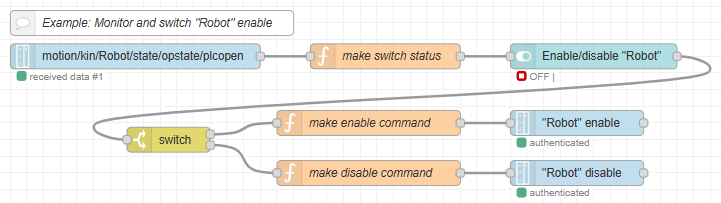
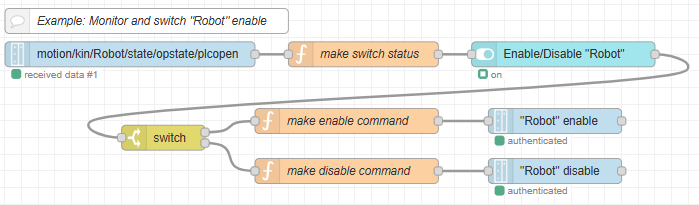
Dashboard 2.0 motion kinematic examples added

Changed region(s): [[0.0, 0.0296, 0.9914, 0.9754]]

diff --git a/doc/EXAMPLES.md b/doc/EXAMPLES.md
@@ -47,11 +47,11 @@ This page contains various examples for different use cases. Looking through the
 - [Absolute positioning of an axis "AxisX"]( #absolute-positioning-of-an-axis-axisx)
 - [Abort an axis movement of an axis "AxisX"]( #abort-movement-of-an-axis-axisx)
 - [Reset an error of an axis "AxisX"](#reset-an-error-of-an-axis-axisx)
-- [Group axes of kinematic "Robot"]( #group-axes-of-kinematic-robot)
-- [Monitor and enable or disable kinematic "Robot"]( #monitor-and-enable-or-disable-kinematic-robot)
-- [Move linear absolute position kinematic "Robot"]( #move-linear-absolute-position-kinematic-robot)
-- [Abort kinematic "Robot"]( #abort-kinematic-robot)
-- [Reset kinematic "Robot"]( #reset-kinematic-robot)
+- [Group axes to kinematic "Robot"]( #group-axes-to-kinematic-robot)
+- [Monitor and enable or disable of kinematic "Robot"]( #monitor-and-enable-or-disable-of-kinematic-robot)
+- [Move linear absolute of kinematic "Robot"]( #move-linear-absolute-of-kinematic-robot)
+- [Abort movement of kinematic "Robot"]( #abort-movement-of-kinematic-robot)
+- [Reset error of kinematic "Robot"]( #reset-error-of-kinematic-robot)
 
 [Script interpreter and ctrlX OS - Python Runtime App dashboard examples](#script-interpreter-and-ctrlx-os---python-runtime-app-dashboard-examples)
 
@@ -618,59 +618,89 @@ Dashboard 2.0
 [{"id":"d134226bd80e1be5","type":"function","z":"af28b7f20c662b36","name":"make Reset error","func":"msg.payload = null;\nreturn msg;","outputs":1,"noerr":0,"initialize":"","finalize":"","libs":[],"x":370,"y":2320,"wires":[["c654bbe59916dcd8"]]},{"id":"c654bbe59916dcd8","type":"ctrlx-datalayer-request","z":"af28b7f20c662b36","device":"7b877229.678964","method":"CREATE","path":"motion/axs/AxisX/cmd/reset","payloadFormat":"value_type","name":"Reset error of \"AxisX\"","pendingWarnLevel":"","pendingErrorLevel":"","x":600,"y":2320,"wires":[[]]},{"id":"ee10a5d37883f0b2","type":"comment","z":"af28b7f20c662b36","name":"Example: Reset error of \"AxisX\"","info":"","x":190,"y":2280,"wires":[]},{"id":"a68723ea4473153d","type":"inject","z":"af28b7f20c662b36","name":"Manual Trigger","props":[{"p":"payload"},{"p":"topic","vt":"str"}],"repeat":"","crontab":"","once":false,"onceDelay":0.1,"topic":"","payload":"","payloadType":"date","x":160,"y":2320,"wires":[["d134226bd80e1be5"]]},{"id":"b6ce21aaefb38b56","type":"ui-button","z":"af28b7f20c662b36","group":"3a3c05d390239fbd","name":"","label":"Reset error of \"AxisX\"","order":5,"width":"2","height":"1","emulateClick":false,"tooltip":"","color":"","bgcolor":"","className":"","icon":"","iconPosition":"left","payload":"","payloadType":"str","topic":"topic","topicType":"msg","buttonColor":"","textColor":"","iconColor":"","enableClick":true,"enablePointerdown":false,"pointerdownPayload":"","pointerdownPayloadType":"str","enablePointerup":false,"pointerupPayload":"","pointerupPayloadType":"str","x":160,"y":2360,"wires":[["d134226bd80e1be5"]]},{"id":"7b877229.678964","type":"ctrlx-config","name":"localhost","hostname":"localhost","debug":false},{"id":"3a3c05d390239fbd","type":"ui-group","name":"Axes handling","page":"30e3bb10109e324b","width":6,"height":1,"order":1,"showTitle":true,"className":"","visible":"true","disabled":"false","groupType":"default"},{"id":"30e3bb10109e324b","type":"ui-page","name":"Page 1","ui":"ae50776f3a63db0e","path":"/page1","icon":"home","layout":"grid","theme":"a204995a5a44f2b2","breakpoints":[{"name":"Default","px":0,"cols":3},{"name":"Tablet","px":576,"cols":6},{"name":"Small Desktop","px":768,"cols":9},{"name":"Desktop","px":1024,"cols":12}],"order":1,"className":"","visible":true,"disabled":false},{"id":"ae50776f3a63db0e","type":"ui-base","name":"My Dashboard","path":"/dashboard","appIcon":"","includeClientData":true,"acceptsClientConfig":["ui-notification","ui-control"],"showPathInSidebar":false,"headerContent":"page","navigationStyle":"default","titleBarStyle":"default","showReconnectNotification":true,"notificationDisplayTime":1,"showDisconnectNotification":true,"allowInstall":false},{"id":"a204995a5a44f2b2","type":"ui-theme","name":"Default Theme","colors":{"surface":"#ffffff","primary":"#0094CE","bgPage":"#eeeeee","groupBg":"#ffffff","groupOutline":"#cccccc"},"sizes":{"density":"default","pagePadding":"12px","groupGap":"12px","groupBorderRadius":"4px","widgetGap":"12px"}},{"id":"bbbad2206b96fc4a","type":"global-config","env":[],"modules":{"node-red-contrib-ctrlx-automation":"1.9.8","@flowfuse/node-red-dashboard":"1.30.2"}}]
 ```
 
-### Group axes of kinematic "Robot"
+### Group axes to kinematic "Robot"
 
-The following example shows how to add the axes ("X","Y","Z") to a kinematic group "Robot". Each axis grouped must be defined in the kinematic axes. Axis states must be `STANDSTILL`. This command will transition the grouped axes into state `COORDINATED_MOTION`. Axes must be grouped and the kinematic must be enabled prior to physical motion.
+The following example shows how to add the axes ("X","Y","Z") to a kinematic "Robot". Each axis must be defined as a kinematic axes. Axis states must be `STANDSTILL`. This command will transition the grouped axes into state `COORDINATED_MOTION`. Axes must be grouped and the kinematic must be enabled prior to physical motion ([see axis state machine documentation](https://docs.automation.boschrexroth.com/doc/359516816/axis-objects/latest/en/)).
 
 ![examples-motion-kinematics-group-axes.png](./images/examples-motion-kinematics-group-axes.png)
 ![examples-motion-kinematics-group-axes-dashboard.png](./images/examples-motion-kinematics-group-axes-dashboard.png)
 
+Dashboard 1.0
 ```JSON
 [{"id":"57f25cb632d4c907","type":"function","z":"3f1e15ba92536e91","name":"group command","func":"var newMsg = {};\nnewMsg.payload = {\n    \"type\": \"object\",\n    \"value\": {\n        \"kinName\": \"Robot\",\n        \"buffered\": false\n    }\n}\nreturn newMsg;","outputs":1,"noerr":0,"initialize":"","finalize":"","libs":[],"x":380,"y":200,"wires":[["6a752590b2876ba5","49122ab1c98b446b","c0da08a13cfeda35"]]},{"id":"6a752590b2876ba5","type":"ctrlx-datalayer-request","z":"3f1e15ba92536e91","device":"7b877229.678964","method":"CREATE","path":"motion/axs/X/cmd/add-to-kin","payloadFormat":"value_type","name":"\"X\" axis add to kinematic","x":650,"y":140,"wires":[[]]},{"id":"a42e5536c1a2763e","type":"ui_button","z":"3f1e15ba92536e91","name":"","group":"85755e14b124f041","order":3,"width":"3","height":"1","passthru":false,"label":"Group \"Robot\"","tooltip":"","color":"","bgcolor":"","className":"","icon":"","payload":"","payloadType":"str","topic":"topic","topicType":"msg","x":180,"y":200,"wires":[["57f25cb632d4c907"]]},{"id":"b5d6748b8bc10a6a","type":"inject","z":"3f1e15ba92536e91","name":"Manual Trigger","props":[{"p":"payload"},{"p":"topic","vt":"str"}],"repeat":"","crontab":"","once":false,"onceDelay":0.1,"topic":"","payload":"","payloadType":"date","x":180,"y":160,"wires":[["57f25cb632d4c907"]]},{"id":"aa78fd51fee8f256","type":"comment","z":"3f1e15ba92536e91","name":"Example: Group axes of kinematic \"Robot\"","info":"","x":220,"y":120,"wires":[]},{"id":"49122ab1c98b446b","type":"ctrlx-datalayer-request","z":"3f1e15ba92536e91","device":"7b877229.678964","method":"CREATE","path":"motion/axs/Y/cmd/add-to-kin","payloadFormat":"value_type","name":"\"Y\" axis add to kinematic","x":650,"y":200,"wires":[[]]},{"id":"c0da08a13cfeda35","type":"ctrlx-datalayer-request","z":"3f1e15ba92536e91","device":"7b877229.678964","method":"CREATE","path":"motion/axs/Z/cmd/add-to-kin","payloadFormat":"value_type","name":"\"Z\" axis add to kinematic","x":650,"y":260,"wires":[[]]},{"id":"7b877229.678964","type":"ctrlx-config","name":"localhost","hostname":"localhost","debug":false},{"id":"85755e14b124f041","type":"ui_group","name":"Kinematic Handling","tab":"9cba2148.8c9148","order":3,"disp":true,"width":"6","collapse":false,"className":""},{"id":"9cba2148.8c9148","type":"ui_tab","name":"Examples","icon":"dashboard","order":7,"disabled":false,"hidden":false}]
 ```
 
-### Monitor and enable or disable kinematic "Robot"
+Dashboard 2.0
+```JSON
+[{"id":"57f25cb632d4c907","type":"function","z":"af28b7f20c662b36","name":"group command","func":"var newMsg = {};\nnewMsg.payload = {\n    \"type\": \"object\",\n    \"value\": {\n        \"kinName\": \"Robot\",\n        \"buffered\": false\n    }\n}\nreturn newMsg;","outputs":1,"noerr":0,"initialize":"","finalize":"","libs":[],"x":360,"y":2580,"wires":[["6a752590b2876ba5","49122ab1c98b446b","c0da08a13cfeda35"]]},{"id":"6a752590b2876ba5","type":"ctrlx-datalayer-request","z":"af28b7f20c662b36","device":"7b877229.678964","method":"CREATE","path":"motion/axs/X/cmd/add-to-kin","payloadFormat":"value_type","name":"\"X\" axis add to kinematic","pendingWarnLevel":"","pendingErrorLevel":"","x":610,"y":2520,"wires":[[]]},{"id":"b5d6748b8bc10a6a","type":"inject","z":"af28b7f20c662b36","name":"Manual Trigger","props":[{"p":"payload"},{"p":"topic","vt":"str"}],"repeat":"","crontab":"","once":false,"onceDelay":0.1,"topic":"","payload":"","payloadType":"date","x":160,"y":2540,"wires":[["57f25cb632d4c907"]]},{"id":"aa78fd51fee8f256","type":"comment","z":"af28b7f20c662b36","name":"Example: Group axes of kinematic \"Robot\"","info":"","x":220,"y":2500,"wires":[]},{"id":"49122ab1c98b446b","type":"ctrlx-datalayer-request","z":"af28b7f20c662b36","device":"7b877229.678964","method":"CREATE","path":"motion/axs/Y/cmd/add-to-kin","payloadFormat":"value_type","name":"\"Y\" axis add to kinematic","pendingWarnLevel":"","pendingErrorLevel":"","x":610,"y":2580,"wires":[[]]},{"id":"c0da08a13cfeda35","type":"ctrlx-datalayer-request","z":"af28b7f20c662b36","device":"7b877229.678964","method":"CREATE","path":"motion/axs/Z/cmd/add-to-kin","payloadFormat":"value_type","name":"\"Z\" axis add to kinematic","pendingWarnLevel":"","pendingErrorLevel":"","x":610,"y":2640,"wires":[[]]},{"id":"4c696b04b40f0c67","type":"ui-button","z":"af28b7f20c662b36","group":"79318a125619cb7d","name":"","label":"Group \"Robot\"","order":5,"width":"2","height":"1","emulateClick":false,"tooltip":"","color":"","bgcolor":"","className":"","icon":"","iconPosition":"left","payload":"","payloadType":"str","topic":"topic","topicType":"msg","buttonColor":"","textColor":"","iconColor":"","enableClick":true,"enablePointerdown":false,"pointerdownPayload":"","pointerdownPayloadType":"str","enablePointerup":false,"pointerupPayload":"","pointerupPayloadType":"str","x":140,"y":2580,"wires":[["57f25cb632d4c907"]]},{"id":"7b877229.678964","type":"ctrlx-config","name":"localhost","hostname":"localhost","debug":false},{"id":"79318a125619cb7d","type":"ui-group","name":"Kinematik handling","page":"30e3bb10109e324b","width":6,"height":1,"order":-1,"showTitle":true,"className":"","visible":"true","disabled":"false","groupType":"default"},{"id":"30e3bb10109e324b","type":"ui-page","name":"Page 1","ui":"ae50776f3a63db0e","path":"/page1","icon":"home","layout":"grid","theme":"a204995a5a44f2b2","breakpoints":[{"name":"Default","px":0,"cols":3},{"name":"Tablet","px":576,"cols":6},{"name":"Small Desktop","px":768,"cols":9},{"name":"Desktop","px":1024,"cols":12}],"order":1,"className":"","visible":true,"disabled":false},{"id":"ae50776f3a63db0e","type":"ui-base","name":"My Dashboard","path":"/dashboard","appIcon":"","includeClientData":true,"acceptsClientConfig":["ui-notification","ui-control"],"showPathInSidebar":false,"headerContent":"page","navigationStyle":"default","titleBarStyle":"default","showReconnectNotification":true,"notificationDisplayTime":1,"showDisconnectNotification":true,"allowInstall":false},{"id":"a204995a5a44f2b2","type":"ui-theme","name":"Default Theme","colors":{"surface":"#ffffff","primary":"#0094CE","bgPage":"#eeeeee","groupBg":"#ffffff","groupOutline":"#cccccc"},"sizes":{"density":"default","pagePadding":"12px","groupGap":"12px","groupBorderRadius":"4px","widgetGap":"12px"}},{"id":"37810904cae826e5","type":"global-config","env":[],"modules":{"node-red-contrib-ctrlx-automation":"1.9.8","@flowfuse/node-red-dashboard":"1.30.2"}}]
+```
 
-The following example shows how to monitor, enable and disable the kinematic group "Robot". Axis states can be `STANDSTILL` or `COORDINATED_MOTION` after grouping. Axes must be grouped and the kinematic must be enabled prior to physical axis motion.
+### Monitor and enable or disable of kinematic "Robot"
+
+The following example shows how to monitor, enable and disable the kinematic group "Robot". Axis states can be `STANDSTILL` or `COORDINATED_MOTION` after grouping. Axes must be grouped and the kinematic must be enabled prior to axis motion ([see kinematic state machine documentation](https://docs.automation.boschrexroth.com/doc/3130592849/kinematic-objects/latest/en/)).
 
 ![examples-motion-kinematics-monitor-enable-disable.png](./images/examples-motion-kinematics-monitor-enable-disable.png)
 ![examples-motion-kinematics-monitor-enable-disable-dashboard.png](./images/examples-motion-kinematics-monitor-enable-disable-dashboard.png)
 
+Dashboard 1.0
 ```JSON
 [{"id":"b209226589a79621","type":"comment","z":"b12a2b51700402e0","name":"Example: Monitor and switch \"Robot\" enable","info":"","x":570,"y":480,"wires":[]},{"id":"a4bd2b7f770627be","type":"ui_switch","z":"b12a2b51700402e0","name":"","label":"Enable/disable \"Robot\"","tooltip":"","group":"85755e14b124f041","order":1,"width":"4","height":"1","passthru":false,"decouple":"true","topic":"","topicType":"str","style":"","onvalue":"{\"type\":\"bool8\",\"value\":true}","onvalueType":"json","onicon":"","oncolor":"","offvalue":"{\"type\":\"bool8\",\"value\":false}","offvalueType":"json","officon":"","offcolor":"","animate":false,"className":"","x":1100,"y":520,"wires":[["cae8298f2e8feaea"]]},{"id":"9f0584db0ec9dd17","type":"ctrlx-datalayer-request","z":"b12a2b51700402e0","device":"7b877229.678964","method":"CREATE","path":"motion/kin/Robot/cmd/group-ena","payloadFormat":"value_type","name":"\"Robot\" enable","pendingWarnLevel":"","pendingErrorLevel":"","x":1080,"y":600,"wires":[[]]},{"id":"d826f25e19cc2b25","type":"ctrlx-datalayer-request","z":"b12a2b51700402e0","device":"7b877229.678964","method":"CREATE","path":"motion/kin/Robot/cmd/group-dis","payloadFormat":"value_type","name":"\"Robot\" disable","pendingWarnLevel":"","pendingErrorLevel":"","x":1080,"y":660,"wires":[[]]},{"id":"cae8298f2e8feaea","type":"switch","z":"b12a2b51700402e0","name":"","property":"payload.value","propertyType":"msg","rules":[{"t":"true"},{"t":"false"}],"checkall":"false","repair":false,"outputs":2,"x":590,"y":620,"wires":[["9c1c14a3e7aa2864"],["e4f3efe23e81ddc6"]]},{"id":"9c1c14a3e7aa2864","type":"function","z":"b12a2b51700402e0","name":"make enable command","func":"var newMsg = {};\nnewMsg.payload = \"\";\nreturn newMsg;","outputs":1,"timeout":"","noerr":0,"initialize":"","finalize":"","libs":[],"x":830,"y":600,"wires":[["9f0584db0ec9dd17"]]},{"id":"e4f3efe23e81ddc6","type":"function","z":"b12a2b51700402e0","name":"make disable command","func":"var newMsg = {};\nnewMsg.payload = \"\";\nreturn newMsg;","outputs":1,"timeout":"","noerr":0,"initialize":"","finalize":"","libs":[],"x":830,"y":660,"wires":[["d826f25e19cc2b25"]]},{"id":"9938499b3b6e685e","type":"function","z":"b12a2b51700402e0","name":"make switch status","func":"var newMsg = {};\nif (msg.payload == \"DISABLED\") {\n newMsg.payload = {\"type\":\"bool8\",\"value\":false}\n} \nelse {\n newMsg.payload = {\"type\":\"bool8\",\"value\":true} \n}\nreturn newMsg;","outputs":1,"timeout":"","noerr":0,"initialize":"","finalize":"","libs":[],"x":850,"y":520,"wires":[["a4bd2b7f770627be"]]},{"id":"59f1383ada1f4db6","type":"ctrlx-datalayer-subscribe","z":"b12a2b51700402e0","subscription":"632bcc2.eddf134","path":"motion/kin/Robot/state/opstate/plcopen","name":"","inputs":0,"x":550,"y":520,"wires":[["9938499b3b6e685e"]]},{"id":"85755e14b124f041","type":"ui_group","name":"Kinematic Handling","tab":"9cba2148.8c9148","order":3,"disp":true,"width":"6","collapse":false,"className":""},{"id":"7b877229.678964","type":"ctrlx-config","name":"localhost","hostname":"localhost","debug":false},{"id":"632bcc2.eddf134","type":"ctrlx-config-subscription","device":"7b877229.678964","name":"Sub_Default","publishIntervalMs":"1","publishIntervalUnits":"seconds","samplingInterval":"100","samplingIntervalUnits":"milliseconds","errorInterval":"60","errorIntervalUnits":"seconds","keepaliveInterval":"60","keepaliveIntervalUnits":"seconds","queueSize":"1","queueBehaviour":"DiscardOldest","deadbandValue":""},{"id":"9cba2148.8c9148","type":"ui_tab","name":"Examples","icon":"dashboard","order":7,"disabled":false,"hidden":false}]
 ```
 
-### Move linear absolute position kinematic "Robot"
+Dashboard 2.0
+```JSON
+[{"id":"b209226589a79621","type":"comment","z":"af28b7f20c662b36","name":"Example: Monitor and switch \"Robot\" enable","info":"","x":230,"y":2700,"wires":[]},{"id":"9f0584db0ec9dd17","type":"ctrlx-datalayer-request","z":"af28b7f20c662b36","device":"7b877229.678964","method":"CREATE","path":"motion/kin/Robot/cmd/group-ena","payloadFormat":"value_type","name":"\"Robot\" enable","pendingWarnLevel":"","pendingErrorLevel":"","x":720,"y":2820,"wires":[[]]},{"id":"d826f25e19cc2b25","type":"ctrlx-datalayer-request","z":"af28b7f20c662b36","device":"7b877229.678964","method":"CREATE","path":"motion/kin/Robot/cmd/group-dis","payloadFormat":"value_type","name":"\"Robot\" disable","pendingWarnLevel":"","pendingErrorLevel":"","x":720,"y":2880,"wires":[[]]},{"id":"cae8298f2e8feaea","type":"switch","z":"af28b7f20c662b36","name":"","property":"payload.value","propertyType":"msg","rules":[{"t":"true"},{"t":"false"}],"checkall":"false","repair":false,"outputs":2,"x":250,"y":2840,"wires":[["9c1c14a3e7aa2864"],["e4f3efe23e81ddc6"]]},{"id":"9c1c14a3e7aa2864","type":"function","z":"af28b7f20c662b36","name":"make enable command","func":"var newMsg = {};\nnewMsg.payload = \"\";\nreturn newMsg;","outputs":1,"timeout":"","noerr":0,"initialize":"","finalize":"","libs":[],"x":470,"y":2820,"wires":[["9f0584db0ec9dd17"]]},{"id":"e4f3efe23e81ddc6","type":"function","z":"af28b7f20c662b36","name":"make disable command","func":"var newMsg = {};\nnewMsg.payload = \"\";\nreturn newMsg;","outputs":1,"timeout":"","noerr":0,"initialize":"","finalize":"","libs":[],"x":470,"y":2880,"wires":[["d826f25e19cc2b25"]]},{"id":"9938499b3b6e685e","type":"function","z":"af28b7f20c662b36","name":"make switch status","func":"var newMsg = {};\nif (msg.payload == \"DISABLED\") {\n newMsg.payload = {\"type\":\"bool8\",\"value\":false}\n} \nelse {\n newMsg.payload = {\"type\":\"bool8\",\"value\":true} \n}\nreturn newMsg;","outputs":1,"timeout":"","noerr":0,"initialize":"","finalize":"","libs":[],"x":490,"y":2740,"wires":[["e8e7a5c5a0807c32"]]},{"id":"59f1383ada1f4db6","type":"ctrlx-datalayer-subscribe","z":"af28b7f20c662b36","subscription":"632bcc2.eddf134","path":"motion/kin/Robot/state/opstate/plcopen","name":"","inputs":0,"x":210,"y":2740,"wires":[["9938499b3b6e685e"]]},{"id":"e8e7a5c5a0807c32","type":"ui-switch","z":"af28b7f20c662b36","name":"","label":"Enable/Disable \"Robot\"","group":"79318a125619cb7d","order":1,"width":"2","height":"1","passthru":false,"decouple":true,"topic":"topic","topicType":"msg","style":"","className":"","layout":"row-left","clickableArea":"switch","onvalue":"{\"type\":\"bool8\",\"value\":true} ","onvalueType":"json","onicon":"","oncolor":"","offvalue":"{\"type\":\"bool8\",\"value\":false} ","offvalueType":"json","officon":"","offcolor":"","x":730,"y":2740,"wires":[["cae8298f2e8feaea"]]},{"id":"7b877229.678964","type":"ctrlx-config","name":"localhost","hostname":"localhost","debug":false},{"id":"632bcc2.eddf134","type":"ctrlx-config-subscription","device":"7b877229.678964","name":"Sub_Default","publishIntervalMs":"","samplingInterval":"","errorInterval":"","keepaliveInterval":"","queueSize":"","deadbandValue":""},{"id":"79318a125619cb7d","type":"ui-group","name":"Kinematik handling","page":"30e3bb10109e324b","width":6,"height":1,"order":-1,"showTitle":true,"className":"","visible":"true","disabled":"false","groupType":"default"},{"id":"30e3bb10109e324b","type":"ui-page","name":"Page 1","ui":"ae50776f3a63db0e","path":"/page1","icon":"home","layout":"grid","theme":"a204995a5a44f2b2","breakpoints":[{"name":"Default","px":0,"cols":3},{"name":"Tablet","px":576,"cols":6},{"name":"Small Desktop","px":768,"cols":9},{"name":"Desktop","px":1024,"cols":12}],"order":1,"className":"","visible":true,"disabled":false},{"id":"ae50776f3a63db0e","type":"ui-base","name":"My Dashboard","path":"/dashboard","appIcon":"","includeClientData":true,"acceptsClientConfig":["ui-notification","ui-control"],"showPathInSidebar":false,"headerContent":"page","navigationStyle":"default","titleBarStyle":"default","showReconnectNotification":true,"notificationDisplayTime":1,"showDisconnectNotification":true,"allowInstall":false},{"id":"a204995a5a44f2b2","type":"ui-theme","name":"Default Theme","colors":{"surface":"#ffffff","primary":"#0094CE","bgPage":"#eeeeee","groupBg":"#ffffff","groupOutline":"#cccccc"},"sizes":{"density":"default","pagePadding":"12px","groupGap":"12px","groupBorderRadius":"4px","widgetGap":"12px"}},{"id":"4ecfe844793739f3","type":"global-config","env":[],"modules":{"node-red-contrib-ctrlx-automation":"1.9.8","@flowfuse/node-red-dashboard":"1.30.2"}}]
+```
 
-The following example shows how to request an linear absolute position move of a kinematic "Robot". If the command is initiated with axis states `STANDSTILL`, this will produce a virtual move of the kinematic. To move physical axes, axis states must be `COORDINATED_MOTION`. An example startup sequence is then: power on, group axes to kinematic, enable kinematic, request move.
+### Move linear absolute of kinematic "Robot"
+
+The following example shows how to request an linear absolute positioning movement of a kinematic "Robot". If the command is initiated with axis states `STANDSTILL`, this will produce only a virtual movement of the kinematic. To move the axes along, their states must be `COORDINATED_MOTION`. An example startup sequence is then: power on, group axes to kinematic, enable kinematic, request movement ([see kinematic state machine documentation](https://docs.automation.boschrexroth.com/doc/3130592849/kinematic-objects/latest/en/)).
 
 ![examples-motion-kinematics-move-absolute.png](./images/examples-motion-kinematics-move-absolute.png)
 ![examples-motion-kinematics-move-absolute-dashboard.png](./images/examples-motion-kinematics-move-absolute-dashboard.png)
 
+Dashboard 1.0
 ```JSON
 [{"id":"a4b5f4ddf588ea6a","type":"function","z":"49a0fa857f86c38c","name":"make pos command","func":"var newMsg = {};\nnewMsg.payload = {\n    \"type\": \"object\",\n    \"value\": {\n        \"kinPos\": [15.5, 12.0, 3.0, 0.0, 0.0, 0.0, 0.0, 0.0, 0.0, 0.0, 0.0, 0.0, 0.0, 0.0, 0.0, 0.0],\n        \"coordSys\": \"WCS\",\n        \"lim\": {\n            \"vel\": 800,\n            \"acc\": 3,\n            \"dec\": 3,\n            \"jrkAcc\": 0,\n            \"jrkDec\": 0\n        }\n    }\n}\nreturn newMsg;","outputs":1,"noerr":0,"initialize":"","finalize":"","libs":[],"x":420,"y":120,"wires":[["5071eee48d45d006"]]},{"id":"5071eee48d45d006","type":"ctrlx-datalayer-request","z":"49a0fa857f86c38c","device":"7b877229.678964","method":"CREATE","path":"motion/kin/Robot/cmd/move-abs","payloadFormat":"value_type","name":"\"Robot\" pos abs","x":660,"y":120,"wires":[[]]},{"id":"ed595e644b52bb5c","type":"ui_button","z":"49a0fa857f86c38c","name":"","group":"85755e14b124f041","order":3,"width":"3","height":"1","passthru":false,"label":"Move \"Robot\"","tooltip":"","color":"","bgcolor":"","className":"","icon":"","payload":"","payloadType":"str","topic":"topic","topicType":"msg","x":200,"y":160,"wires":[["a4b5f4ddf588ea6a"]]},{"id":"04d0b8522adbe49e","type":"inject","z":"49a0fa857f86c38c","name":"Manual Trigger","props":[{"p":"payload"},{"p":"topic","vt":"str"}],"repeat":"","crontab":"","once":false,"onceDelay":0.1,"topic":"","payload":"","payloadType":"date","x":180,"y":120,"wires":[["a4b5f4ddf588ea6a"]]},{"id":"6ab024b45f88f622","type":"comment","z":"49a0fa857f86c38c","name":"Example: Move absolute kinematic \"Robot\"","info":"","x":220,"y":80,"wires":[]},{"id":"7b877229.678964","type":"ctrlx-config","name":"localhost","hostname":"localhost","debug":false},{"id":"85755e14b124f041","type":"ui_group","name":"Kinematic Handling","tab":"9cba2148.8c9148","order":3,"disp":true,"width":"6","collapse":false,"className":""},{"id":"9cba2148.8c9148","type":"ui_tab","name":"Examples","icon":"dashboard","order":7,"disabled":false,"hidden":false}]
 ```
 
-### Abort kinematic "Robot"
+Dashboard 2.0
+```JSON
+[{"id":"a4b5f4ddf588ea6a","type":"function","z":"af28b7f20c662b36","name":"make movement command","func":"var newMsg = {};\nnewMsg.payload = {\n    \"type\": \"object\",\n    \"value\": {\n        \"kinPos\": [42.1, 42.2, 42.3, 0.0, 0.0, 0.0, 0.0, 0.0, 0.0, 0.0, 0.0, 0.0, 0.0, 0.0, 0.0, 0.0],\n        \"coordSys\": \"WCS\",\n        \"lim\": {\n            \"vel\": 8,\n            \"acc\": 3,\n            \"dec\": 3,\n            \"jrkAcc\": 0,\n            \"jrkDec\": 0\n        }\n    }\n}\nreturn newMsg;","outputs":1,"timeout":"","noerr":0,"initialize":"","finalize":"","libs":[],"x":460,"y":2980,"wires":[["5071eee48d45d006"]]},{"id":"5071eee48d45d006","type":"ctrlx-datalayer-request","z":"af28b7f20c662b36","device":"7b877229.678964","method":"CREATE","path":"motion/kin/Robot/cmd/move-abs","payloadFormat":"value_type","name":"Move linear absolute \"Robot\"","pendingWarnLevel":"","pendingErrorLevel":"","x":740,"y":2980,"wires":[[]]},{"id":"04d0b8522adbe49e","type":"inject","z":"af28b7f20c662b36","name":"Manual Trigger","props":[{"p":"payload"},{"p":"topic","vt":"str"}],"repeat":"","crontab":"","once":false,"onceDelay":0.1,"topic":"","payload":"","payloadType":"date","x":160,"y":2980,"wires":[["a4b5f4ddf588ea6a"]]},{"id":"6ab024b45f88f622","type":"comment","z":"af28b7f20c662b36","name":"Example: Linear absolute movement of kinematic \"Robot\"","info":"","x":270,"y":2940,"wires":[]},{"id":"35ca3c1275f0d4b4","type":"ui-button","z":"af28b7f20c662b36","group":"79318a125619cb7d","name":"","label":" Move linear absolute \"Robot\"","order":1,"width":"2","height":"1","emulateClick":false,"tooltip":"","color":"","bgcolor":"","className":"","icon":"","iconPosition":"left","payload":"","payloadType":"str","topic":"topic","topicType":"msg","buttonColor":"","textColor":"","iconColor":"","enableClick":true,"enablePointerdown":false,"pointerdownPayload":"","pointerdownPayloadType":"str","enablePointerup":false,"pointerupPayload":"","pointerupPayloadType":"str","x":180,"y":3020,"wires":[["a4b5f4ddf588ea6a"]]},{"id":"7b877229.678964","type":"ctrlx-config","name":"localhost","hostname":"localhost","debug":false},{"id":"79318a125619cb7d","type":"ui-group","name":"Kinematik handling","page":"30e3bb10109e324b","width":6,"height":1,"order":1,"showTitle":true,"className":"","visible":"true","disabled":"false","groupType":"default"},{"id":"30e3bb10109e324b","type":"ui-page","name":"Page 1","ui":"ae50776f3a63db0e","path":"/page1","icon":"home","layout":"grid","theme":"a204995a5a44f2b2","breakpoints":[{"name":"Default","px":0,"cols":3},{"name":"Tablet","px":576,"cols":6},{"name":"Small Desktop","px":768,"cols":9},{"name":"Desktop","px":1024,"cols":12}],"order":1,"className":"","visible":true,"disabled":false},{"id":"ae50776f3a63db0e","type":"ui-base","name":"My Dashboard","path":"/dashboard","appIcon":"","includeClientData":true,"acceptsClientConfig":["ui-notification","ui-control"],"showPathInSidebar":false,"headerContent":"page","navigationStyle":"default","titleBarStyle":"default","showReconnectNotification":true,"notificationDisplayTime":1,"showDisconnectNotification":true,"allowInstall":false},{"id":"a204995a5a44f2b2","type":"ui-theme","name":"Default Theme","colors":{"surface":"#ffffff","primary":"#0094CE","bgPage":"#eeeeee","groupBg":"#ffffff","groupOutline":"#cccccc"},"sizes":{"density":"default","pagePadding":"12px","groupGap":"12px","groupBorderRadius":"4px","widgetGap":"12px"}},{"id":"468279b4bbec35a3","type":"global-config","env":[],"modules":{"node-red-contrib-ctrlx-automation":"1.9.8","@flowfuse/node-red-dashboard":"1.30.2"}}]
+```
 
-The following example shows how to abort the kinematic "Robot". This command can be issued in state `MOVING` or `STANDBY`. It will transition the kinematic into state `ABORTING`. Once the stopping motion is complete, the kinematic transitions to state `STANDBY` and all buffered commands are removed.
+### Abort movement of kinematic "Robot"
 
-![examples-motion-kinematics-abort.png](./images/examples-motion-kinematics-abort.png)
-![examples-motion-kinematics-abort-dashboard.png](./images/examples-motion-kinematics-abort-dashboard.png)
+The following example shows how to abort the movement of kinematic "Robot". This command can be issued in state `MOVING` or `STANDBY`. It will transition the kinematic into state `ABORTING`. Once the stopping the motion is completed, the kinematic transitions to state `STANDBY` and all buffered commands are removed ([see kinematic state machine documentation](https://docs.automation.boschrexroth.com/doc/3130592849/kinematic-objects/latest/en/)).
 
+![examples-motion-kinematics-abort-movement.png](./images/examples-motion-kinematics-abort-movement.png)
+![examples-motion-kinematics-abort-movement-dashboard.png](./images/examples-motion-kinematics-abort-movement-dashboard.png)
+
+Dashboard 1.0
 ```JSON
 [{"id":"563e15c2db30bf28","type":"ctrlx-datalayer-request","z":"201ba7c7148a7cc2","device":"7b877229.678964","method":"CREATE","path":"motion/kin/Robot/cmd/abort","payloadFormat":"value_type","name":"\"Robot\" abort","x":670,"y":120,"wires":[[]]},{"id":"ac7a8b1446a1e812","type":"ui_button","z":"201ba7c7148a7cc2","name":"","group":"85755e14b124f041","order":3,"width":"3","height":"1","passthru":false,"label":"Abort \"Robot\"","tooltip":"","color":"","bgcolor":"","className":"","icon":"","payload":"","payloadType":"str","topic":"topic","topicType":"msg","x":220,"y":160,"wires":[["558c61d4c8d9c1ac"]]},{"id":"4175c5684253f0db","type":"inject","z":"201ba7c7148a7cc2","name":"Manual Trigger","props":[{"p":"payload"},{"p":"topic","vt":"str"}],"repeat":"","crontab":"","once":false,"onceDelay":0.1,"topic":"","payload":"","payloadType":"date","x":200,"y":120,"wires":[["558c61d4c8d9c1ac"]]},{"id":"64da5a64be4f7a30","type":"comment","z":"201ba7c7148a7cc2","name":"Example: Abort command kinematic \"Robot\"","info":"","x":250,"y":80,"wires":[]},{"id":"558c61d4c8d9c1ac","type":"function","z":"201ba7c7148a7cc2","name":"make abort command","func":"msg.payload = null;\nreturn msg;","outputs":1,"noerr":0,"initialize":"","finalize":"","libs":[],"x":440,"y":120,"wires":[["563e15c2db30bf28"]]},{"id":"7b877229.678964","type":"ctrlx-config","name":"localhost","hostname":"localhost","debug":false},{"id":"85755e14b124f041","type":"ui_group","name":"Kinematic Handling","tab":"9cba2148.8c9148","order":3,"disp":true,"width":"6","collapse":false,"className":""},{"id":"9cba2148.8c9148","type":"ui_tab","name":"Examples","icon":"dashboard","order":7,"disabled":false,"hidden":false}]
 ```
 
-### Reset kinematic "Robot"
+Dashboard 2.0
+```JSON
+[{"id":"563e15c2db30bf28","type":"ctrlx-datalayer-request","z":"af28b7f20c662b36","device":"7b877229.678964","method":"CREATE","path":"motion/kin/Robot/cmd/abort","payloadFormat":"value_type","name":"Abort movement \"Robot\" ","pendingWarnLevel":"","pendingErrorLevel":"","x":670,"y":3120,"wires":[[]]},{"id":"4175c5684253f0db","type":"inject","z":"af28b7f20c662b36","name":"Manual Trigger","props":[{"p":"payload"},{"p":"topic","vt":"str"}],"repeat":"","crontab":"","once":false,"onceDelay":0.1,"topic":"","payload":"","payloadType":"date","x":160,"y":3120,"wires":[["558c61d4c8d9c1ac"]]},{"id":"64da5a64be4f7a30","type":"comment","z":"af28b7f20c662b36","name":"Example: Abort movemnt of kinematic \"Robot\"","info":"","x":230,"y":3080,"wires":[]},{"id":"558c61d4c8d9c1ac","type":"function","z":"af28b7f20c662b36","name":"make abort command","func":"msg.payload = null;\nreturn msg;","outputs":1,"noerr":0,"initialize":"","finalize":"","libs":[],"x":420,"y":3120,"wires":[["563e15c2db30bf28"]]},{"id":"d33673e21407ea0d","type":"ui-button","z":"af28b7f20c662b36","group":"79318a125619cb7d","name":"","label":"Abort movement \"Robot\"","order":1,"width":"2","height":"1","emulateClick":false,"tooltip":"","color":"","bgcolor":"","className":"","icon":"","iconPosition":"left","payload":"","payloadType":"str","topic":"topic","topicType":"msg","buttonColor":"","textColor":"","iconColor":"","enableClick":true,"enablePointerdown":false,"pointerdownPayload":"","pointerdownPayloadType":"str","enablePointerup":false,"pointerupPayload":"","pointerupPayloadType":"str","x":170,"y":3160,"wires":[["558c61d4c8d9c1ac"]]},{"id":"7b877229.678964","type":"ctrlx-config","name":"localhost","hostname":"localhost","debug":false},{"id":"79318a125619cb7d","type":"ui-group","name":"Kinematik handling","page":"30e3bb10109e324b","width":6,"height":1,"order":1,"showTitle":true,"className":"","visible":"true","disabled":"false","groupType":"default"},{"id":"30e3bb10109e324b","type":"ui-page","name":"Page 1","ui":"ae50776f3a63db0e","path":"/page1","icon":"home","layout":"grid","theme":"a204995a5a44f2b2","breakpoints":[{"name":"Default","px":0,"cols":3},{"name":"Tablet","px":576,"cols":6},{"name":"Small Desktop","px":768,"cols":9},{"name":"Desktop","px":1024,"cols":12}],"order":1,"className":"","visible":true,"disabled":false},{"id":"ae50776f3a63db0e","type":"ui-base","name":"My Dashboard","path":"/dashboard","appIcon":"","includeClientData":true,"acceptsClientConfig":["ui-notification","ui-control"],"showPathInSidebar":false,"headerContent":"page","navigationStyle":"default","titleBarStyle":"default","showReconnectNotification":true,"notificationDisplayTime":1,"showDisconnectNotification":true,"allowInstall":false},{"id":"a204995a5a44f2b2","type":"ui-theme","name":"Default Theme","colors":{"surface":"#ffffff","primary":"#0094CE","bgPage":"#eeeeee","groupBg":"#ffffff","groupOutline":"#cccccc"},"sizes":{"density":"default","pagePadding":"12px","groupGap":"12px","groupBorderRadius":"4px","widgetGap":"12px"}},{"id":"8938a0652525c8f0","type":"global-config","env":[],"modules":{"node-red-contrib-ctrlx-automation":"1.9.8","@flowfuse/node-red-dashboard":"1.30.2"}}]
+```
 
-The following example shows how to reset errors for the kinematic "Robot". If the errors are minor, subordinate axes are also reset and the kinematic transitions to state `STANDBY`. In the case of severe errors, subordinate axes are not reset and the kinematic transitions to state `DISABLED`.
+### Reset error of kinematic "Robot"
+
+The following example shows how to reset errors for the kinematic "Robot". If the errors are minor, subordinate axes are also reset and the kinematic transitions to state `STANDBY`. In the case of severe errors, subordinate axes are not reset and the kinematic transitions to state `DISABLED` ([see kinematic state machine documentation](https://docs.automation.boschrexroth.com/doc/3130592849/kinematic-objects/latest/en/))..
 
 ![examples-motion-kinematics-reset.png](./images/examples-motion-kinematics-reset.png)
 ![examples-motion-kinematics-reset-dashboard.png](./images/examples-motion-kinematics-reset-dashboard.png)
 
+Dashboard 1.0
 ```JSON
 [{"id":"295d31e596bb3952","type":"ctrlx-datalayer-request","z":"0c66745436523bb7","device":"7b877229.678964","method":"CREATE","path":"motion/kin/Robot/cmd/reset","payloadFormat":"value_type","name":"\"Robot\" reset","x":710,"y":100,"wires":[[]]},{"id":"aed8d5115b8cc229","type":"ui_button","z":"0c66745436523bb7","name":"","group":"85755e14b124f041","order":3,"width":"3","height":"1","passthru":false,"label":"Reset \"Robot\"","tooltip":"","color":"","bgcolor":"","className":"","icon":"","payload":"","payloadType":"str","topic":"topic","topicType":"msg","x":260,"y":140,"wires":[["b3a6dc57db58af3a"]]},{"id":"7638c60369720b4f","type":"inject","z":"0c66745436523bb7","name":"Manual Trigger","props":[{"p":"payload"},{"p":"topic","vt":"str"}],"repeat":"","crontab":"","once":false,"onceDelay":0.1,"topic":"","payload":"","payloadType":"date","x":240,"y":100,"wires":[["b3a6dc57db58af3a"]]},{"id":"0610da93a6d6a7f1","type":"comment","z":"0c66745436523bb7","name":"Example: Reset kinematic \"Robot\"","info":"","x":260,"y":60,"wires":[]},{"id":"b3a6dc57db58af3a","type":"function","z":"0c66745436523bb7","name":"make reset command","func":"msg.payload = null;\nreturn msg;","outputs":1,"noerr":0,"initialize":"","finalize":"","libs":[],"x":480,"y":100,"wires":[["295d31e596bb3952"]]},{"id":"7b877229.678964","type":"ctrlx-config","name":"localhost","hostname":"localhost","debug":false},{"id":"85755e14b124f041","type":"ui_group","name":"Kinematic Handling","tab":"9cba2148.8c9148","order":3,"disp":true,"width":"6","collapse":false,"className":""},{"id":"9cba2148.8c9148","type":"ui_tab","name":"Examples","icon":"dashboard","order":7,"disabled":false,"hidden":false}]
+```
+
+Dashboard 2.0
+```JSON
+[{"id":"295d31e596bb3952","type":"ctrlx-datalayer-request","z":"af28b7f20c662b36","device":"7b877229.678964","method":"CREATE","path":"motion/kin/Robot/cmd/reset","payloadFormat":"value_type","name":"Reset error \"Robot\"","pendingWarnLevel":"","pendingErrorLevel":"","x":610,"y":3260,"wires":[[]]},{"id":"7638c60369720b4f","type":"inject","z":"af28b7f20c662b36","name":"Manual Trigger","props":[{"p":"payload"},{"p":"topic","vt":"str"}],"repeat":"","crontab":"","once":false,"onceDelay":0.1,"topic":"","payload":"","payloadType":"date","x":160,"y":3260,"wires":[["b3a6dc57db58af3a"]]},{"id":"0610da93a6d6a7f1","type":"comment","z":"af28b7f20c662b36","name":"Example: Reset error of kinematic \"Robot\"","info":"","x":220,"y":3220,"wires":[]},{"id":"b3a6dc57db58af3a","type":"function","z":"af28b7f20c662b36","name":"make reset command","func":"msg.payload = null;\nreturn msg;","outputs":1,"noerr":0,"initialize":"","finalize":"","libs":[],"x":380,"y":3260,"wires":[["295d31e596bb3952"]]},{"id":"70a98ddbb9c131d1","type":"ui-button","z":"af28b7f20c662b36","group":"79318a125619cb7d","name":"","label":"Reset error \"Robot\"","order":1,"width":"2","height":"1","emulateClick":false,"tooltip":"","color":"","bgcolor":"","className":"","icon":"","iconPosition":"left","payload":"","payloadType":"str","topic":"topic","topicType":"msg","buttonColor":"","textColor":"","iconColor":"","enableClick":true,"enablePointerdown":false,"pointerdownPayload":"","pointerdownPayloadType":"str","enablePointerup":false,"pointerupPayload":"","pointerupPayloadType":"str","x":150,"y":3300,"wires":[["b3a6dc57db58af3a"]]},{"id":"7b877229.678964","type":"ctrlx-config","name":"localhost","hostname":"localhost","debug":false},{"id":"79318a125619cb7d","type":"ui-group","name":"Kinematik handling","page":"30e3bb10109e324b","width":6,"height":1,"order":1,"showTitle":true,"className":"","visible":"true","disabled":"false","groupType":"default"},{"id":"30e3bb10109e324b","type":"ui-page","name":"Page 1","ui":"ae50776f3a63db0e","path":"/page1","icon":"home","layout":"grid","theme":"a204995a5a44f2b2","breakpoints":[{"name":"Default","px":0,"cols":3},{"name":"Tablet","px":576,"cols":6},{"name":"Small Desktop","px":768,"cols":9},{"name":"Desktop","px":1024,"cols":12}],"order":1,"className":"","visible":true,"disabled":false},{"id":"ae50776f3a63db0e","type":"ui-base","name":"My Dashboard","path":"/dashboard","appIcon":"","includeClientData":true,"acceptsClientConfig":["ui-notification","ui-control"],"showPathInSidebar":false,"headerContent":"page","navigationStyle":"default","titleBarStyle":"default","showReconnectNotification":true,"notificationDisplayTime":1,"showDisconnectNotification":true,"allowInstall":false},{"id":"a204995a5a44f2b2","type":"ui-theme","name":"Default Theme","colors":{"surface":"#ffffff","primary":"#0094CE","bgPage":"#eeeeee","groupBg":"#ffffff","groupOutline":"#cccccc"},"sizes":{"density":"default","pagePadding":"12px","groupGap":"12px","groupBorderRadius":"4px","widgetGap":"12px"}},{"id":"e86288b17b4fdb12","type":"global-config","env":[],"modules":{"node-red-contrib-ctrlx-automation":"1.9.8","@flowfuse/node-red-dashboard":"1.30.2"}}]
 ```
 
 ## Script interpreter and ctrlX OS - Python Runtime App dashboard examples
